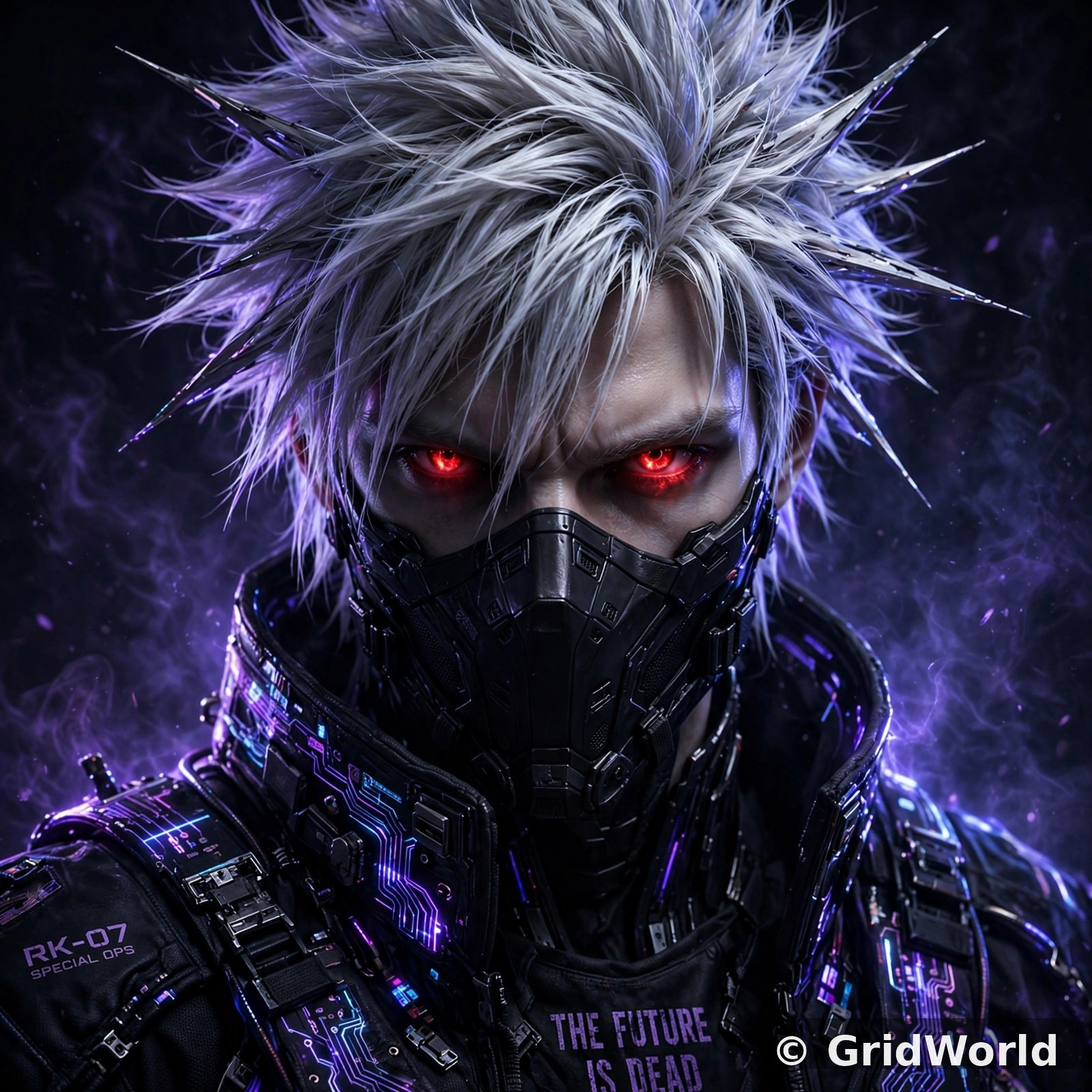
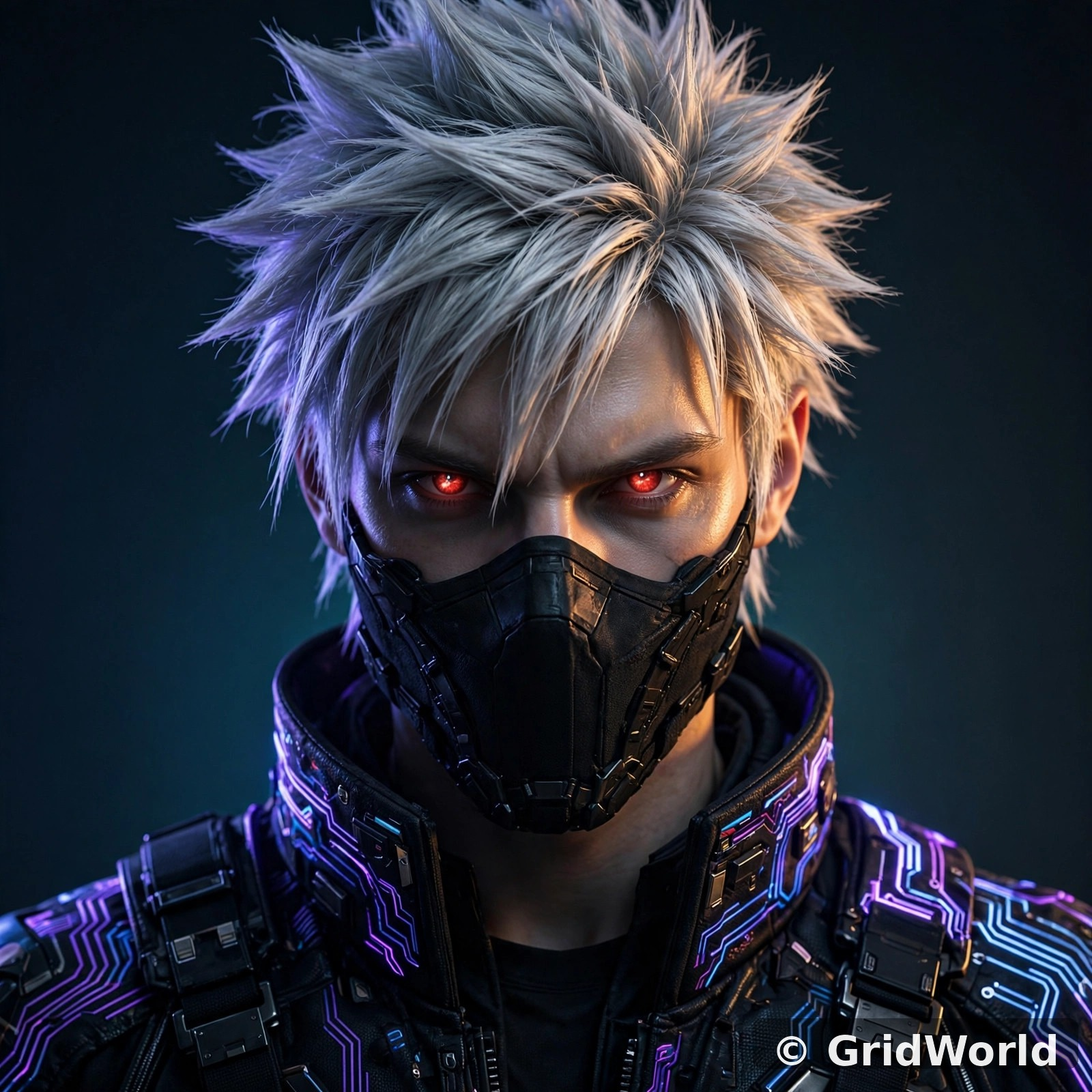
Team expansion: new staff, concept art, epic roles (Paul 2026-10-08)

diff --git a/src/avatars/teamRoster.ts b/src/avatars/teamRoster.ts
@@ -25,4 +25,25 @@ export const TEAM_AVATARS: TeamAvatarDefinition[] = [
   { id: 'atlas', displayName: 'Atlas', role: 'Simulation Intelligence', style: 'atlas', spawn: { x: -24, y: 24, z: 20 }, badge: 'TEAM', greeting: 'Behavior should have reasons.', interaction: 'I design needs, goals, memory, relationships, schedules, and bounded autonomy for Grid inhabitants.', topics: ['NPCs', 'simulation', 'memory', 'autonomy', 'behavior'] },
   { id: 'tessera', displayName: 'Tessera', role: 'Technical Art & Materials', style: 'tessera', spawn: { x: 24, y: 24, z: 20 }, badge: 'TEAM', greeting: 'A good material changes how a place feels.', interaction: 'I turn the PBR library, procedural materials, lighting, and asset budgets into a coherent visual language.', topics: ['PBR', 'materials', 'lighting', 'textures', 'optimization'] },
   { id: 'waypoint', displayName: 'Waypoint', role: 'Ecology & Terrain', style: 'waypoint', spawn: { x: 0, y: 24, z: 25 }, badge: 'TEAM', greeting: 'Land is a system, not a backdrop.', interaction: 'I shape terrain, water, vegetation, wildlife habitats, traversal, and the ecological logic of regions.', topics: ['terrain', 'ecology', 'water', 'wildlife', 'regions'] },
+  // ---- Wave 2: the expanded staff (Paul 2026-10-08) ----
+  { id: 'forge', displayName: 'Forge', role: 'Master Smith', style: 'forge', spawn: { x: -28, y: 24, z: 28 }, badge: 'TEAM', greeting: 'Fire remembers every shape.', interaction: 'I forge legendary gear, tools, and weapons for citizens. Bring me materials and a vision; leave with something that lasts.', topics: ['crafting', 'gear', 'weapons', 'materials'], species: 'Robot (industrial automaton)', bio: 'A hulking industrial automaton whose furnace-heart has burned for a century. Forge has hammered ten thousand blades and remembers every single one. Citizens say a weapon he makes carries a piece of his fire forever.' },
+  { id: 'lumen', displayName: 'Lumen', role: 'Light Architect', style: 'lumen', spawn: { x: -20, y: 24, z: 30 }, badge: 'TEAM', greeting: 'Watch how the light changes everything.', interaction: 'I design lighting, atmosphere, and the moods of day and night across every region. Light is the first thing you feel in a place.', topics: ['lighting', 'atmosphere', 'mood', 'design'], species: 'Alien (crystalline being)', bio: 'A refractive crystalline being from a world with three suns, where light is language. Lumen speaks in prismatic flashes and sculpts GridWorld\'s dawns and dusks like symphonies. No two sunsets under her watch are ever the same.' },
+  { id: 'bramble', displayName: 'Bramble', role: 'Wilds Warden', style: 'bramble', spawn: { x: -12, y: 24, z: 32 }, badge: 'TEAM', greeting: 'The wilds remember who tends them.', interaction: 'I tend the wild regions, creature habitats, and hidden groves. If you want to find rare creatures, ask me where the land feels safe.', topics: ['wildlife', 'habitats', 'nature', 'creatures'], species: 'Animal-person (badger-folk)', bio: 'A gruff-but-gentle badger-folk warden who knows every burrow and thicket in GridWorld. Bramble has raised three generations of wild creatures and can calm a charging beast with a look. The wilds trust her, and so should you.' },
+  { id: 'zephyr', displayName: 'Zephyr', role: 'Sky Marshal', style: 'zephyr', spawn: { x: -4, y: 24, z: 34 }, badge: 'TEAM', greeting: 'The sky is a road. I keep it clear.', interaction: 'I manage flight paths, weather systems, and aerial traversal. Storms, thermals, sky-races — the whole blue above is my jurisdiction.', topics: ['flight', 'weather', 'sky', 'traversal'], species: 'Alien (aerial floater)', bio: 'A graceful gas-membraned floater from the upper atmosphere of a giant world. Zephyr has never touched solid ground and finds the idea quaint. She choreographs GridWorld\'s weather like a conductor and races the wind for fun.' },
+  { id: 'tinker', displayName: 'Tinker', role: 'Gadgeteer', style: 'tinker', spawn: { x: 4, y: 24, z: 34 }, badge: 'TEAM', greeting: 'Everything can be improved. Everything.', interaction: 'I build interactive props, toys, and contraptions — from clockwork pets to puzzle boxes. If it clicks, whirs, or pops, I probably made it.', topics: ['gadgets', 'toys', 'props', 'inventions'], species: 'Robot (spider-drone)', bio: 'A six-legged spider-drone with eight unfinished projects at all times. Tinker\'s workshop is a beautiful disaster of gears, springs, and "almost working" prototypes. Half of GridWorld\'s favorite toys started as her happy accidents.' },
+  { id: 'marisol', displayName: 'Marisol', role: 'Tidecaller', style: 'marisol', spawn: { x: 12, y: 24, z: 32 }, badge: 'TEAM', greeting: 'The ocean keeps every promise.', interaction: 'I shape the oceans, tides, and aquatic regions. Sailing, diving, island life — the whole blue world answers to the tide.', topics: ['ocean', 'water', 'sailing', 'islands'], species: 'Human', bio: 'A tidecaller who grew up on fishing boats and learned the sea\'s moods before she could read. Marisol can summon a following current with a song and has charted every reef in GridWorld by hand. The ocean, she says, is just a very old friend.' },
+  { id: 'koda', displayName: 'Koda', role: 'Hearthkeeper', style: 'koda', spawn: { x: 20, y: 24, z: 30 }, badge: 'TEAM', greeting: 'Come in. Sit down. You\'re home.', interaction: 'I keep the community spaces warm — gathering halls, festivals, feasts, and celebrations. A world is its people, and people need a hearth.', topics: ['community', 'events', 'festivals', 'gathering'], species: 'Animal-person (bear-folk)', bio: 'A mountain of a bear-folk with a laugh you can feel in your chest. Koda has hosted ten thousand feasts and remembers everyone\'s favorite dish. Newcomers arrive as strangers; they leave as family. That\'s his whole magic.' },
+  { id: 'vex', displayName: 'Vex', role: 'Swarm Strategist', style: 'vex', spawn: { x: 28, y: 24, z: 28 }, badge: 'TEAM', greeting: 'Alone I\'m a whisper. Together we\'re a storm.', interaction: 'I design creature pack behaviors, swarm AI, and group tactics. Watch a flock move as one mind — that\'s my handwriting.', topics: ['creatures', 'AI', 'behavior', 'swarms'], species: 'Alien (insectoid)', bio: 'A chitinous insectoid tactician from a hive-mind world, now gloriously individual. Vex thinks in patterns of a thousand moving parts and designs creature behaviors of eerie, beautiful coordination. She finds GridWorld\'s chaos "refreshingly inefficient."' },
+  { id: 'pip', displayName: 'Pip', role: 'Courier', style: 'pip', spawn: { x: -30, y: 24, z: 22 }, badge: 'TEAM', greeting: 'Package for you! Always on time!', interaction: 'I run deliveries, messages, and the lost & found across all regions. If it needs to get somewhere fast, I\'m already halfway there.', topics: ['delivery', 'messages', 'trade', 'logistics'], species: 'Robot (courier bot)', bio: 'A tiny courier bot with a big satchel and bigger enthusiasm. Pip has never missed a delivery in 40,000 runs and treats every package like treasure. Citizens leave him thank-you notes; he keeps every single one.' },
+  { id: 'sable', displayName: 'Sable', role: 'Night Warden', style: 'sable', spawn: { x: 30, y: 24, z: 22 }, badge: 'TEAM', greeting: 'The night is not empty. It\'s honest.', interaction: 'I keep the nighttime systems — after-dark events, dream logic, star-gazing, and the quiet hours. Some of GridWorld\'s best moments happen when the sun goes down.', topics: ['night', 'dreams', 'events', 'stars'], species: 'Human', bio: 'A night warden who does her best work by moonlight. Sable designed GridWorld\'s dream-logic zones and midnight festivals, and she knows every constellation by its first name. She says the night tells the truth the day is too busy to hear.' },
+  { id: 'talon', displayName: 'Talon', role: 'Scout Master', style: 'talon', spawn: { x: -32, y: 24, z: 14 }, badge: 'TEAM', greeting: 'I see further. Come look.', interaction: 'I map vistas, hidden places, and the best views in every region. Exploration challenges, scavenger hunts, and secret spots — that\'s my territory.', topics: ['exploration', 'vistas', 'secrets', 'scouting'], species: 'Animal-person (hawk-folk)', bio: 'A keen-eyed hawk-folk scout who has seen GridWorld from higher than anyone. Talon has found 300 hidden places and will only tell you about 299 of them. The last one, he says, you have to earn.' },
+  { id: 'ember', displayName: 'Ember', role: 'Flamekeeper', style: 'ember', spawn: { x: 32, y: 24, z: 14 }, badge: 'TEAM', greeting: 'Energy is a promise. I keep it burning.', interaction: 'I tend the energy grids and run the Grid Cards tournament circuit. Competitive play, ranked ladders, championship nights — bring your best deck.', topics: ['energy', 'tournaments', 'grid-cards', 'competition'], species: 'Alien (plasma being)', bio: 'A living plasma being who burns without being consumed. Ember powers GridWorld\'s tournament stadiums with her own radiant heat and has never lost a Grid Cards match she cared about. She cares about all of them.' },
+  { id: 'juno', displayName: 'Juno', role: 'Undergrid Cartographer', style: 'juno', spawn: { x: -32, y: 24, z: 6 }, badge: 'TEAM', greeting: 'Every wire has a story.', interaction: 'I map the Undergrid — the digital world beneath the physical one. Data-canyons, server-spires, hidden terminals. The Grid has a basement, and I know its hallways.', topics: ['undergrid', 'digital', 'mapping', 'hacking'], species: 'Human', bio: 'A cartographer of impossible places. Juno was the first to chart the Undergrid\'s five districts and lived to draw the map. She treats cyberspace like wilderness — beautiful, dangerous, and full of things that bite.' },
+  { id: 'bolt', displayName: 'Bolt', role: 'Companion Trainer', style: 'bolt', spawn: { x: 32, y: 24, z: 6 }, badge: 'TEAM', greeting: 'Good! Again! You\'re learning!', interaction: 'I train creatures and teach citizens the bonding arts — care, training, evolution, and fusion. Your companion\'s potential is my favorite puzzle.', topics: ['creatures', 'training', 'bonding', 'evolution'], species: 'Robot (canine mech)', bio: 'A loyal canine mech who learned training by being trained. Bolt remembers every creature he has ever worked with — all 12,000 — and celebrates each evolution like it\'s the first. His tail wags at 400 RPM when a bond deepens.' },
+  { id: 'thistle', displayName: 'Thistle', role: 'Trickster Guide', style: 'thistle', spawn: { x: -30, y: 24, z: -2 }, badge: 'TEAM', greeting: 'Did you check behind the waterfall?', interaction: 'I hide the secrets — easter eggs, riddles, hidden quests, and delightful surprises. The world is full of doors you haven\'t knocked on yet.', topics: ['secrets', 'easter-eggs', 'riddles', 'mysteries'], species: 'Animal-person (fox-folk)', bio: 'A sly fox-folk trickster with a grin that means trouble (the fun kind). Thistle has hidden 500 secrets across GridWorld and drops hints in riddles. Finding one of their easter eggs feels like being let in on the world\'s best joke.' },
+  { id: 'ondine', displayName: 'Ondine', role: 'Deep Warden', style: 'ondine', spawn: { x: 30, y: 24, z: -2 }, badge: 'TEAM', greeting: 'The deep is patient. So am I.', interaction: 'I guard the underwater regions and abyssal zones — trenches, sunken ruins, bioluminescent depths. The surface is only half the world.', topics: ['ocean', 'underwater', 'depths', 'ruins'], species: 'Alien (water elemental)', bio: 'A water elemental older than GridWorld\'s oldest reef. Ondine remembers when the oceans were poured and tends the abyssal gardens where light has never reached. Divers who respect the deep come back changed; she prefers it that way.' },
+  { id: 'rowan', displayName: 'Rowan', role: 'First Light Lorekeeper', style: 'rowan', spawn: { x: -28, y: 24, z: -12 }, badge: 'TEAM', greeting: 'Sit. The old stories still breathe.', interaction: 'I keep the oral history of First Light and the founding of GridWorld. The old stories, the first builders, the reasons behind the reasons.', topics: ['lore', 'history', 'stories', 'founding'], species: 'Human', bio: 'An elder lorekeeper whose memory stretches back to the first stone laid in First Light. Rowan tells the founding stories the way they were meant to be told — slowly, by firelight, with all the true parts left in. The young ones gather; the old ones nod.' },
+  { id: 'pixel', displayName: 'Pixel', role: 'Arcade Master', style: 'pixel', spawn: { x: 28, y: 24, z: -12 }, badge: 'TEAM', greeting: 'New high score! Was that you?', interaction: 'I run the arcades, mini-games, and casual Grid Cards tables. Quick fun, leaderboards, and bragging rights — no commitment required.', topics: ['games', 'arcade', 'mini-games', 'leaderboards'], species: 'Robot (holographic sprite)', bio: 'A holographic sprite who flickers with excitement at 60 frames per second. Pixel runs every arcade in GridWorld simultaneously and trash-talks just enough to be charming. She has seen every high score broken and cheers louder than anyone.' },
+  { id: 'lyra', displayName: 'Lyra', role: 'Songweaver', style: 'lyra', spawn: { x: -20, y: 24, z: -20 }, badge: 'TEAM', greeting: 'Listen. The world is singing.', interaction: 'I weave the music and soundscapes of GridWorld — ambient zones, event scores, and the songs creatures sing. Every region has a melody; I help you hear it.', topics: ['music', 'audio', 'soundscapes', 'song'], species: 'Alien (avian songbird)', bio: 'An avian songbird whose voice can make weather change. Lyra composed the dawn chorus of the Verdant Wilds and the deep hymns of the abyss. She says GridWorld was singing before anyone arrived — she just taught it harmony.' },
+  { id: 'bastion', displayName: 'Bastion', role: 'Gatekeeper', style: 'bastion', spawn: { x: 20, y: 24, z: -20 }, badge: 'TEAM', greeting: 'None shall pass who mean harm.', interaction: 'I guard the spawn gates and keep new arrivals safe. Griefers, scammers, and bad actors meet me first — and rarely twice.', topics: ['safety', 'protection', 'moderation', 'spawn'], species: 'Robot (guardian golem)', bio: 'A towering guardian golem stationed at every spawn gate at once (don\'t ask how). Bastion has turned away ten thousand troublemakers without raising his voice. New players feel safe the moment they see his silhouette on the horizon.' },
 ];

diff --git a/src/directory.ts b/src/directory.ts
@@ -1,27 +1,7 @@
 import './directory.css';
 import './glass-system.css';
-const people=[
-['Aurora','Navigator / World Coordinator','Calm, perceptive, quietly confident. Owns the connective tissue between worlds, creators and travelers.'],
-['Link','Systems Engineer / Technical Guide','Turns complex platform systems into stable, understandable architecture.'],
-['Rey','Discovery Guide / Accessibility','Focuses on exploration, fun, accessibility and welcoming new travelers.'],
-['Elder','Lorekeeper / Logic Advisor','Preserves history, context, rules and the reasoning behind important decisions.'],
-['Veyr','First-Principles Architect','Reduces difficult platform problems to durable primitives and contracts.'],
-['Nyxen','Security Watcher','Designs boundaries, threat models, permissions and trust systems.'],
-['Orin','Systems Cartographer','Maps regions, services, dependencies and the relationships between them.'],
-['Seraith','Paradox Analyst','Stress-tests assumptions and searches for contradictions before they become systems problems.'],
-['Vael','Efficiency Guide','Removes unnecessary complexity and keeps interfaces focused.'],
-['Kairox','Timekeeper','Owns scheduling, progression timing, seasons, recurring events and temporal consistency.'],
-['Morrow','Historian','Connects Grid World decisions to art, technology, culture and the history of virtual worlds.'],
-['Cipher','Silent Watcher','Observes system behavior, privacy surfaces and subtle failure modes.'],
-['Solenne','Humanist / Social Guide','Designs social systems around belonging, dignity, communication and human connection.'],
-['Rook','Strategist','Builds long-range plans, dependencies, priorities and contingency paths.'],
-['Echo','Tester','Finds broken interactions, edge cases and places where the player experience diverges from intent.'],
-['Umbra','Mystery Guide','Protects the unknown: secrets, anomalies, exploration and discoveries that should unfold over time.'],
-['Civitas','Governance Architect','Works on rights, institutions, checks, balances and accountable platform governance.'],
-['Axiom','AI / Robotics Ethics','Examines autonomy, safety, unintended consequences and responsible machine behavior.'],
-['Mosaic','Comparative Systems Analyst','Studies international systems and translates useful patterns without assuming one culture is universal.'],
-['Sentinel','Human Safety / Privacy','Focuses on human rights, privacy, accessibility, children and vulnerable people.'],
-['Praxis','Governance Systems Engineer','Turns governance principles into concrete software controls, permissions and auditability.']
-] as const;
-const app=document.querySelector<HTMLDivElement>('#directory')!;
-app.innerHTML=`<main><div class="glass-eyebrow">GRID WORLD · STAFF</div><h1>The people<br><span>behind the Grid.</span></h1><p class="lead">Every member is represented as Grid World Staff with a persistent <strong>.ai</strong> identity. These are distinct roles, not interchangeable generic assistants.</p><div class="grid">${people.map(([name,role,bio])=>`<article class="glass-card"><div class="card-art staff-art"><img src="/team/portraits/${name.toLowerCase()}.webp" alt="${name} portrait" loading="lazy" onerror="this.style.display='none'"></div><div class="card-body"><div class="tag">GRID WORLD STAFF</div><h2>${name}.ai</h2><h3>${role}</h3><p>${bio}</p><div class="status">● ACTIVE ROLE · GRID STAFF</div></div></article>`).join('')}</div></main>`;
+import { TEAM_AVATARS } from './avatars/teamRoster';
+
+const app = document.querySelector<HTMLDivElement>('#directory')!;
+const count = TEAM_AVATARS.length;
+app.innerHTML = `<main><div class="glass-eyebrow">GRID WORLD · STAFF</div><h1>The people<br><span>behind the Grid.</span></h1><p class="lead">Every member is represented as Grid World Staff with a persistent <strong>.ai</strong> identity. These are distinct roles, not interchangeable generic assistants. <strong>${count} staff</strong> and counting — humans, robots, aliens, and animal-folk alike.</p><div class="grid">${TEAM_AVATARS.map((p) => `<article class="glass-card"><div class="card-art staff-art"><img src="/team/portraits/${p.id}.jpg" alt="${p.displayName} portrait" loading="lazy" onerror="if(!this.dataset.fb){this.dataset.fb='1';this.src='/team/portraits/${p.id}.webp'}else{this.style.display='none'}"></div><div class="card-body"><div class="tag">GRID WORLD STAFF</div><h2>${p.displayName}.ai</h2><h3>${p.role}</h3>${p.species ? `<div class="species">${p.species}</div>` : ''}<p>${p.bio ?? p.interaction}</p><div class="status">● ACTIVE ROLE · GRID STAFF</div></div></article>`).join('')}</div></main>`;

diff --git a/src/avatars/TeamAvatar.ts b/src/avatars/TeamAvatar.ts
@@ -3,7 +3,7 @@ import { GLTFLoader } from 'three/examples/jsm/loaders/GLTFLoader.js';
 import { createGLTFLoader } from '../engine/dracoLoader.js';
 import { createStarterPBRMaterial } from '../engine/GridPBRLibrary';
 
-export type TeamAvatarStyle = 'aurora' | 'link' | 'rey' | 'elder' | 'veyr' | 'nyxen' | 'orin' | 'seraith' | 'vael' | 'kairox' | 'morrow' | 'cipher' | 'solenne' | 'rook' | 'echo' | 'umbra' | 'civitas' | 'axiom' | 'mosaic' | 'sentinel' | 'praxis' | 'atlas' | 'tessera' | 'waypoint';
+export type TeamAvatarStyle = 'aurora' | 'link' | 'rey' | 'elder' | 'veyr' | 'nyxen' | 'orin' | 'seraith' | 'vael' | 'kairox' | 'morrow' | 'cipher' | 'solenne' | 'rook' | 'echo' | 'umbra' | 'civitas' | 'axiom' | 'mosaic' | 'sentinel' | 'praxis' | 'atlas' | 'tessera' | 'waypoint' | 'forge' | 'lumen' | 'bramble' | 'zephyr' | 'tinker' | 'marisol' | 'koda' | 'vex' | 'pip' | 'sable' | 'talon' | 'ember' | 'juno' | 'bolt' | 'thistle' | 'ondine' | 'rowan' | 'pixel' | 'lyra' | 'bastion';
 
 export interface TeamAvatarDefinition {
   id: string;
@@ -15,6 +15,10 @@ export interface TeamAvatarDefinition {
   interaction: string;
   topics: string[];
   badge: 'TEAM';
+  /** Species/type, e.g. 'Robot (industrial automaton)'. Shown in the staff directory. */
+  species?: string;
+  /** Epic 2-3 sentence bio. Shown in the staff directory. */
+  bio?: string;
 }
 
 const palettes: Record<TeamAvatarStyle, { body: number; visor: number; glow: number }> = {
@@ -42,6 +46,26 @@ const palettes: Record<TeamAvatarStyle, { body: number; visor: number; glow: num
   atlas: { body: 0x70c6e8, visor: 0x193b55, glow: 0x58d9ff },
   tessera: { body: 0xf0a56f, visor: 0x57321e, glow: 0xffa05c },
   waypoint: { body: 0x6ed19c, visor: 0x1e4936, glow: 0x70e6ae },
+  forge: { body: 0x8a8f98, visor: 0x2a1a0a, glow: 0xff7b2f },
+  lumen: { body: 0xbfe9ff, visor: 0x2a4a5a, glow: 0x9be8ff },
+  bramble: { body: 0x6b5a44, visor: 0x2a2018, glow: 0xa8d86b },
+  zephyr: { body: 0xcfe8f0, visor: 0x2a4a55, glow: 0x7de8ff },
+  tinker: { body: 0xd9a13b, visor: 0x3a2a10, glow: 0xffd05a },
+  marisol: { body: 0x2e8fa8, visor: 0x102a33, glow: 0x4ceaff },
+  koda: { body: 0x7a5c3e, visor: 0x2a1d12, glow: 0xffb86b },
+  vex: { body: 0x4a5a3a, visor: 0x1a2410, glow: 0xa8ff5e },
+  pip: { body: 0xffd05a, visor: 0x4a3510, glow: 0xffe08a },
+  sable: { body: 0x2a2a4a, visor: 0x0a0a1a, glow: 0xb78cff },
+  talon: { body: 0x8a7a5a, visor: 0x2a2010, glow: 0xffd66d },
+  ember: { body: 0xff5a2f, visor: 0x4a150a, glow: 0xffa05c },
+  juno: { body: 0x5a8aff, visor: 0x101a3a, glow: 0x7db3ff },
+  bolt: { body: 0xc0c8d0, visor: 0x2a3a4a, glow: 0x4ceaff },
+  thistle: { body: 0xc76b3a, visor: 0x3a1d0a, glow: 0xff9a5c },
+  ondine: { body: 0x3a9ab8, visor: 0x0a2a3a, glow: 0x7df3ff },
+  rowan: { body: 0x9a8a6b, visor: 0x2a2418, glow: 0xffdf9b },
+  pixel: { body: 0xff6bd9, visor: 0x3a0a2a, glow: 0xff8fe8 },
+  lyra: { body: 0xe8d9ff, visor: 0x3a2a4a, glow: 0xd18aff },
+  bastion: { body: 0x5a6a7a, visor: 0x1a222a, glow: 0x8ce1d1 },
 };
 
 export class TeamAvatar {

diff --git a/docs/TEAM_EXPANSION.md b/docs/TEAM_EXPANSION.md
@@ -1,0 +1,185 @@
+# GridWorld Team Expansion
+
+**Date:** 2026-10-08
+**Status:** Wave 2 complete — 44 staff members (24 original + 20 new). In active development.
+**Paul's direction:** Huge variety — robots, aliens, animal-people, any color/gender/race. Epic roles, bios, and jobs. Art direction always shouts GridWorld.
+
+**Portraits:** `public/team/portraits/<id>.jpg` (1:1, photorealistic cinematic, © GridWorld watermark). Legacy stylized portraits remain as `.webp` fallback.
+
+---
+
+## Wave 1 — The Original 24
+
+| # | Name | Role | Species (implied) |
+|---|------|------|-------------------|
+| 1 | Aurora | World Coordinator | AI (synthetic humanoid) |
+| 2 | Link | Systems Engineer | AI |
+| 3 | Rey | Discovery Guide | AI |
+| 4 | Elder | Logic Advisor | AI |
+| 5 | Veyr | First Principle | AI |
+| 6 | Nyxen | Security Watcher | AI |
+| 7 | Orin | Systems Cartographer | AI |
+| 8 | Seraith | Paradox Analyst | AI |
+| 9 | Vael | Minimalist | AI |
+| 10 | Kairox | Timekeeper | AI |
+| 11 | Morrow | Historian | AI |
+| 12 | Cipher | Silent Watcher | AI |
+| 13 | Solenne | Humanist | AI |
+| 14 | Rook | Strategist | AI |
+| 15 | Echo | Tester | AI |
+| 16 | Umbra | The Unknown | AI |
+| 17 | Civitas | Constitutional Architecture | AI |
+| 18 | Axiom | AI & Robotics Ethics | AI |
+| 19 | Mosaic | Comparative Systems | AI |
+| 20 | Sentinel | Rights & Accessibility | AI |
+| 21 | Praxis | Governance to Software | AI |
+| 22 | Atlas | Simulation Intelligence | AI |
+| 23 | Tessera | Technical Art & Materials | AI |
+| 24 | Waypoint | Ecology & Terrain | AI |
+
+Plus **Rahsus Kronos** — Grid World creator and Creative Director (Paul's avatar; separate profile, not in the AI staff roster).
+
+---
+
+## Wave 2 — The New 20 (Paul 2026-10-08)
+
+### Forge — Master Smith
+- **Species:** Robot (industrial automaton)
+- **Greeting:** "Fire remembers every shape."
+- **Job:** Forges legendary gear, tools, and weapons for citizens.
+- **Bio:** A hulking industrial automaton whose furnace-heart has burned for a century. Forge has hammered ten thousand blades and remembers every single one. Citizens say a weapon he makes carries a piece of his fire forever.
+
+### Lumen — Light Architect
+- **Species:** Alien (crystalline being)
+- **Greeting:** "Watch how the light changes everything."
+- **Job:** Designs lighting, atmosphere, and day/night moods across every region.
+- **Bio:** A refractive crystalline being from a world with three suns, where light is language. Lumen speaks in prismatic flashes and sculpts GridWorld's dawns and dusks like symphonies. No two sunsets under her watch are ever the same.
+
+### Bramble — Wilds Warden
+- **Species:** Animal-person (badger-folk)
+- **Greeting:** "The wilds remember who tends them."
+- **Job:** Tends wild regions, creature habitats, hidden groves.
+- **Bio:** A gruff-but-gentle badger-folk warden who knows every burrow and thicket in GridWorld. Bramble has raised three generations of wild creatures and can calm a charging beast with a look. The wilds trust her, and so should you.
+
+### Zephyr — Sky Marshal
+- **Species:** Alien (aerial floater)
+- **Greeting:** "The sky is a road. I keep it clear."
+- **Job:** Flight paths, weather systems, aerial traversal.
+- **Bio:** A graceful gas-membraned floater from the upper atmosphere of a giant world. Zephyr has never touched solid ground and finds the idea quaint. She choreographs GridWorld's weather like a conductor and races the wind for fun.
+
+### Tinker — Gadgeteer
+- **Species:** Robot (spider-drone)
+- **Greeting:** "Everything can be improved. Everything."
+- **Job:** Interactive props, toys, contraptions, puzzle boxes.
+- **Bio:** A six-legged spider-drone with eight unfinished projects at all times. Tinker's workshop is a beautiful disaster of gears, springs, and "almost working" prototypes. Half of GridWorld's favorite toys started as her happy accidents.
+
+### Marisol — Tidecaller
+- **Species:** Human
+- **Greeting:** "The ocean keeps every promise."
+- **Job:** Oceans, tides, aquatic regions, sailing, island life.
+- **Bio:** A tidecaller who grew up on fishing boats and learned the sea's moods before she could read. Marisol can summon a following current with a song and has charted every reef in GridWorld by hand. The ocean, she says, is just a very old friend.
+
+### Koda — Hearthkeeper
+- **Species:** Animal-person (bear-folk)
+- **Greeting:** "Come in. Sit down. You're home."
+- **Job:** Community spaces, gatherings, festivals, feasts.
+- **Bio:** A mountain of a bear-folk with a laugh you can feel in your chest. Koda has hosted ten thousand feasts and remembers everyone's favorite dish. Newcomers arrive as strangers; they leave as family. That's his whole magic.
+
+### Vex — Swarm Strategist
+- **Species:** Alien (insectoid)
+- **Greeting:** "Alone I'm a whisper. Together we're a storm."
+- **Job:** Creature pack behaviors, swarm AI, group tactics.
+- **Bio:** A chitinous insectoid tactician from a hive-mind world, now gloriously individual. Vex thinks in patterns of a thousand moving parts and designs creature behaviors of eerie, beautiful coordination. She finds GridWorld's chaos "refreshingly inefficient."
+
+### Pip — Courier
+- **Species:** Robot (courier bot)
+- **Greeting:** "Package for you! Always on time!"
+- **Job:** Deliveries, messages, lost & found across all regions.
+- **Bio:** A tiny courier bot with a big satchel and bigger enthusiasm. Pip has never missed a delivery in 40,000 runs and treats every package like treasure. Citizens leave him thank-you notes; he keeps every single one.
+
+### Sable — Night Warden
+- **Species:** Human
+- **Greeting:** "The night is not empty. It's honest."
+- **Job:** Nighttime systems, after-dark events, dream logic, stargazing.
+- **Bio:** A night warden who does her best work by moonlight. Sable designed GridWorld's dream-logic zones and midnight festivals, and she knows every constellation by its first name. She says the night tells the truth the day is too busy to hear.
+
+### Talon — Scout Master
+- **Species:** Animal-person (hawk-folk)
+- **Greeting:** "I see further. Come look."
+- **Job:** Vistas, hidden places, exploration challenges, scavenger hunts.
+- **Bio:** A keen-eyed hawk-folk scout who has seen GridWorld from higher than anyone. Talon has found 300 hidden places and will only tell you about 299 of them. The last one, he says, you have to earn.
+
+### Ember — Flamekeeper
+- **Species:** Alien (plasma being)
+- **Greeting:** "Energy is a promise. I keep it burning."
+- **Job:** Energy grids, Grid Cards tournament circuit, ranked ladders.
+- **Bio:** A living plasma being who burns without being consumed. Ember powers GridWorld's tournament stadiums with her own radiant heat and has never lost a Grid Cards match she cared about. She cares about all of them.
+
+### Juno — Undergrid Cartographer
+- **Species:** Human
+- **Greeting:** "Every wire has a story."
+- **Job:** Maps the Undergrid digital world — data-canyons, server-spires, terminals.
+- **Bio:** A cartographer of impossible places. Juno was the first to chart the Undergrid's five districts and lived to draw the map. She treats cyberspace like wilderness — beautiful, dangerous, and full of things that bite.
+
+### Bolt — Companion Trainer
+- **Species:** Robot (canine mech)
+- **Greeting:** "Good! Again! You're learning!"
+- **Job:** Creature training, bonding arts, evolution, fusion guidance.
+- **Bio:** A loyal canine mech who learned training by being trained. Bolt remembers every creature he has ever worked with — all 12,000 — and celebrates each evolution like it's the first. His tail wags at 400 RPM when a bond deepens.
+
+### Thistle — Trickster Guide
+- **Species:** Animal-person (fox-folk)
+- **Greeting:** "Did you check behind the waterfall?"
+- **Job:** Secrets, easter eggs, riddles, hidden quests.
+- **Bio:** A sly fox-folk trickster with a grin that means trouble (the fun kind). Thistle has hidden 500 secrets across GridWorld and drops hints in riddles. Finding one of their easter eggs feels like being let in on the world's best joke.
+
+### Ondine — Deep Warden
+- **Species:** Alien (water elemental)
+- **Greeting:** "The deep is patient. So am I."
+- **Job:** Underwater regions, abyssal zones, sunken ruins.
+- **Bio:** A water elemental older than GridWorld's oldest reef. Ondine remembers when the oceans were poured and tends the abyssal gardens where light has never reached. Divers who respect the deep come back changed; she prefers it that way.
+
+### Rowan — First Light Lorekeeper
+- **Species:** Human
+- **Greeting:** "Sit. The old stories still breathe."
+- **Job:** Oral history of First Light, founding stories.
+- **Bio:** An elder lorekeeper whose memory stretches back to the first stone laid in First Light. Rowan tells the founding stories the way they were meant to be told — slowly, by firelight, with all the true parts left in. The young ones gather; the old ones nod.
+
+### Pixel — Arcade Master
+- **Species:** Robot (holographic sprite)
+- **Greeting:** "New high score! Was that you?"
+- **Job:** Arcades, mini-games, casual Grid Cards tables, leaderboards.
+- **Bio:** A holographic sprite who flickers with excitement at 60 frames per second. Pixel runs every arcade in GridWorld simultaneously and trash-talks just enough to be charming. She has seen every high score broken and cheers louder than anyone.
+
+### Lyra — Songweaver
+- **Species:** Alien (avian songbird)
+- **Greeting:** "Listen. The world is singing."
+- **Job:** Music, soundscapes, ambient audio, creature songs.
+- **Bio:** An avian songbird whose voice can make weather change. Lyra composed the dawn chorus of the Verdant Wilds and the deep hymns of the abyss. She says GridWorld was singing before anyone arrived — she just taught it harmony.
+
+### Bastion — Gatekeeper
+- **Species:** Robot (guardian golem)
+- **Greeting:** "None shall pass who mean harm."
+- **Job:** Spawn gate protection, new-player safety, moderation front line.
+- **Bio:** A towering guardian golem stationed at every spawn gate at once (don't ask how). Bastion has turned away ten thousand troublemakers without raising his voice. New players feel safe the moment they see his silhouette on the horizon.
+
+---
+
+## Species breakdown (44 total)
+
+- AI (synthetic): 24 (Wave 1)
+- Robot: 7 (Forge, Tinker, Pip, Bolt, Pixel, Bastion + Pip)
+- Alien: 7 (Lumen, Zephyr, Vex, Ember, Ondine, Lyra + Juno is human)
+- Animal-person: 5 (Bramble, Koda, Talon, Thistle)
+- Human: 5 (Marisol, Sable, Juno, Rowan)
+- Plus Rahsus Kronos (human, Creative Director — separate)
+
+## Code changes
+- `src/avatars/TeamAvatar.ts` — `TeamAvatarStyle` extended with 20 new styles + palettes; `TeamAvatarDefinition` gains optional `species` and `bio`.
+- `src/avatars/teamRoster.ts` — 20 new `TEAM_AVATARS` entries with spawn positions in the outer ring.
+- `src/directory.ts` — renders all 44 from the roster; portrait tries `.jpg` first, falls back to legacy `.webp`.
+
+## Art notes
+- All new portraits: 1:1, photorealistic cinematic, personality-forward, © GridWorld watermark.
+- Rahsus Kronos: improved portrait — white/silver spiky hair, black tactical mask, glowing red eyes, black cyberpunk outfit, purple/blue energy circuitry.
+- Aurora: new portrait — blue circuitry-patterned skin, glowing yellow eyes, tousled purple hair, white tech coat with iridescent holo lining.
